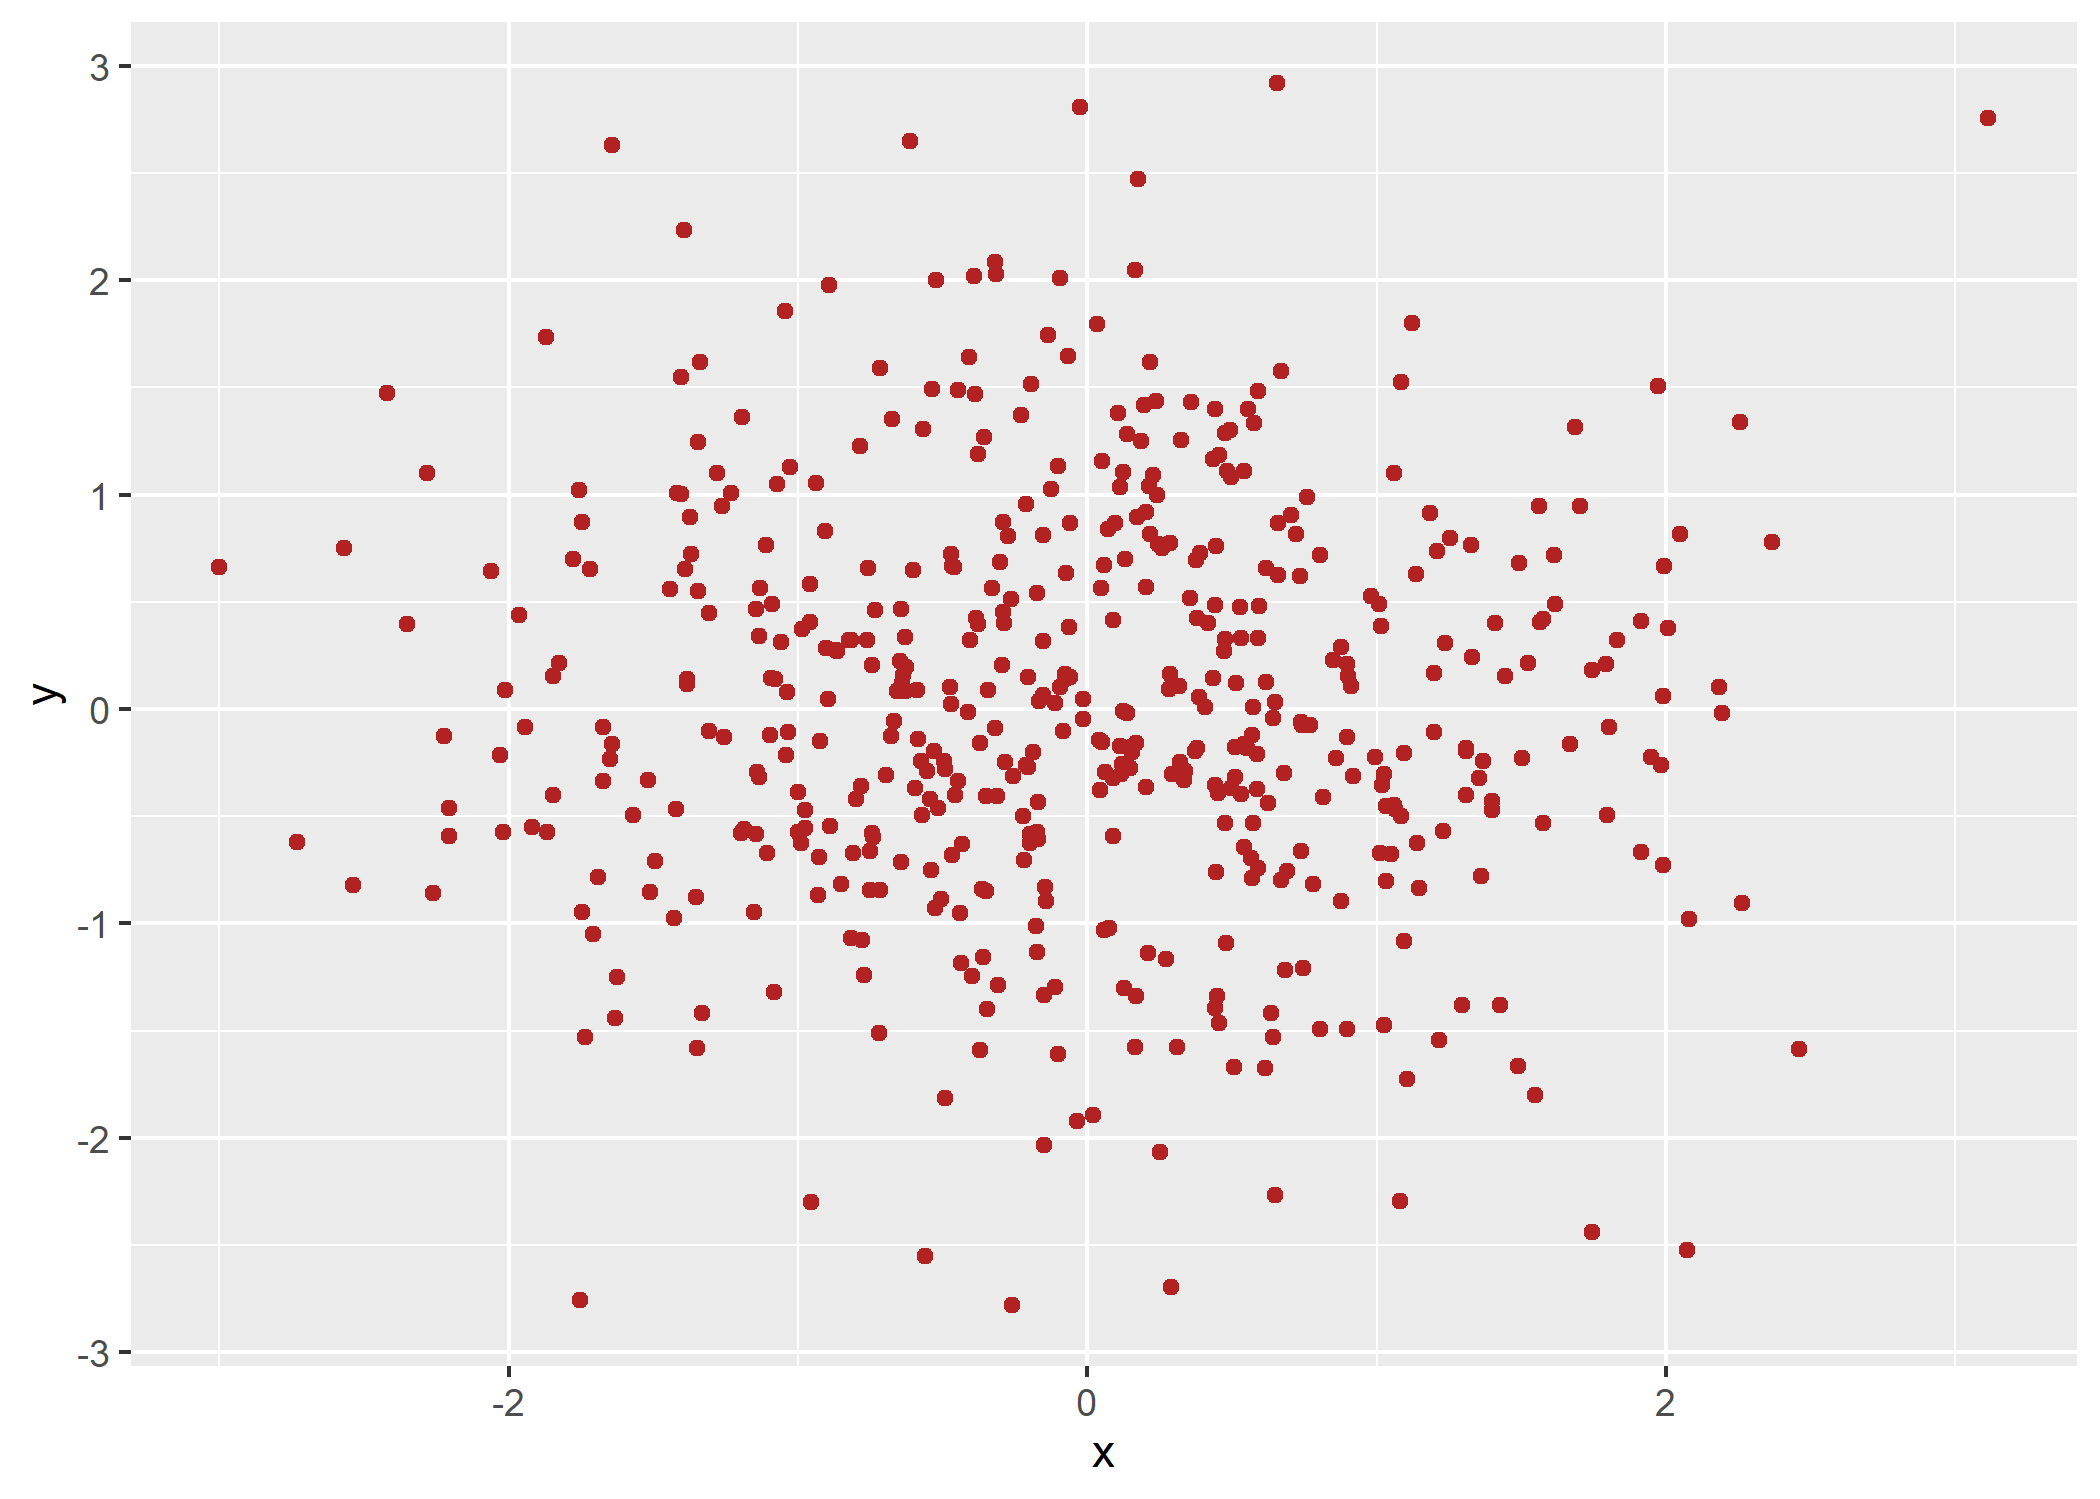
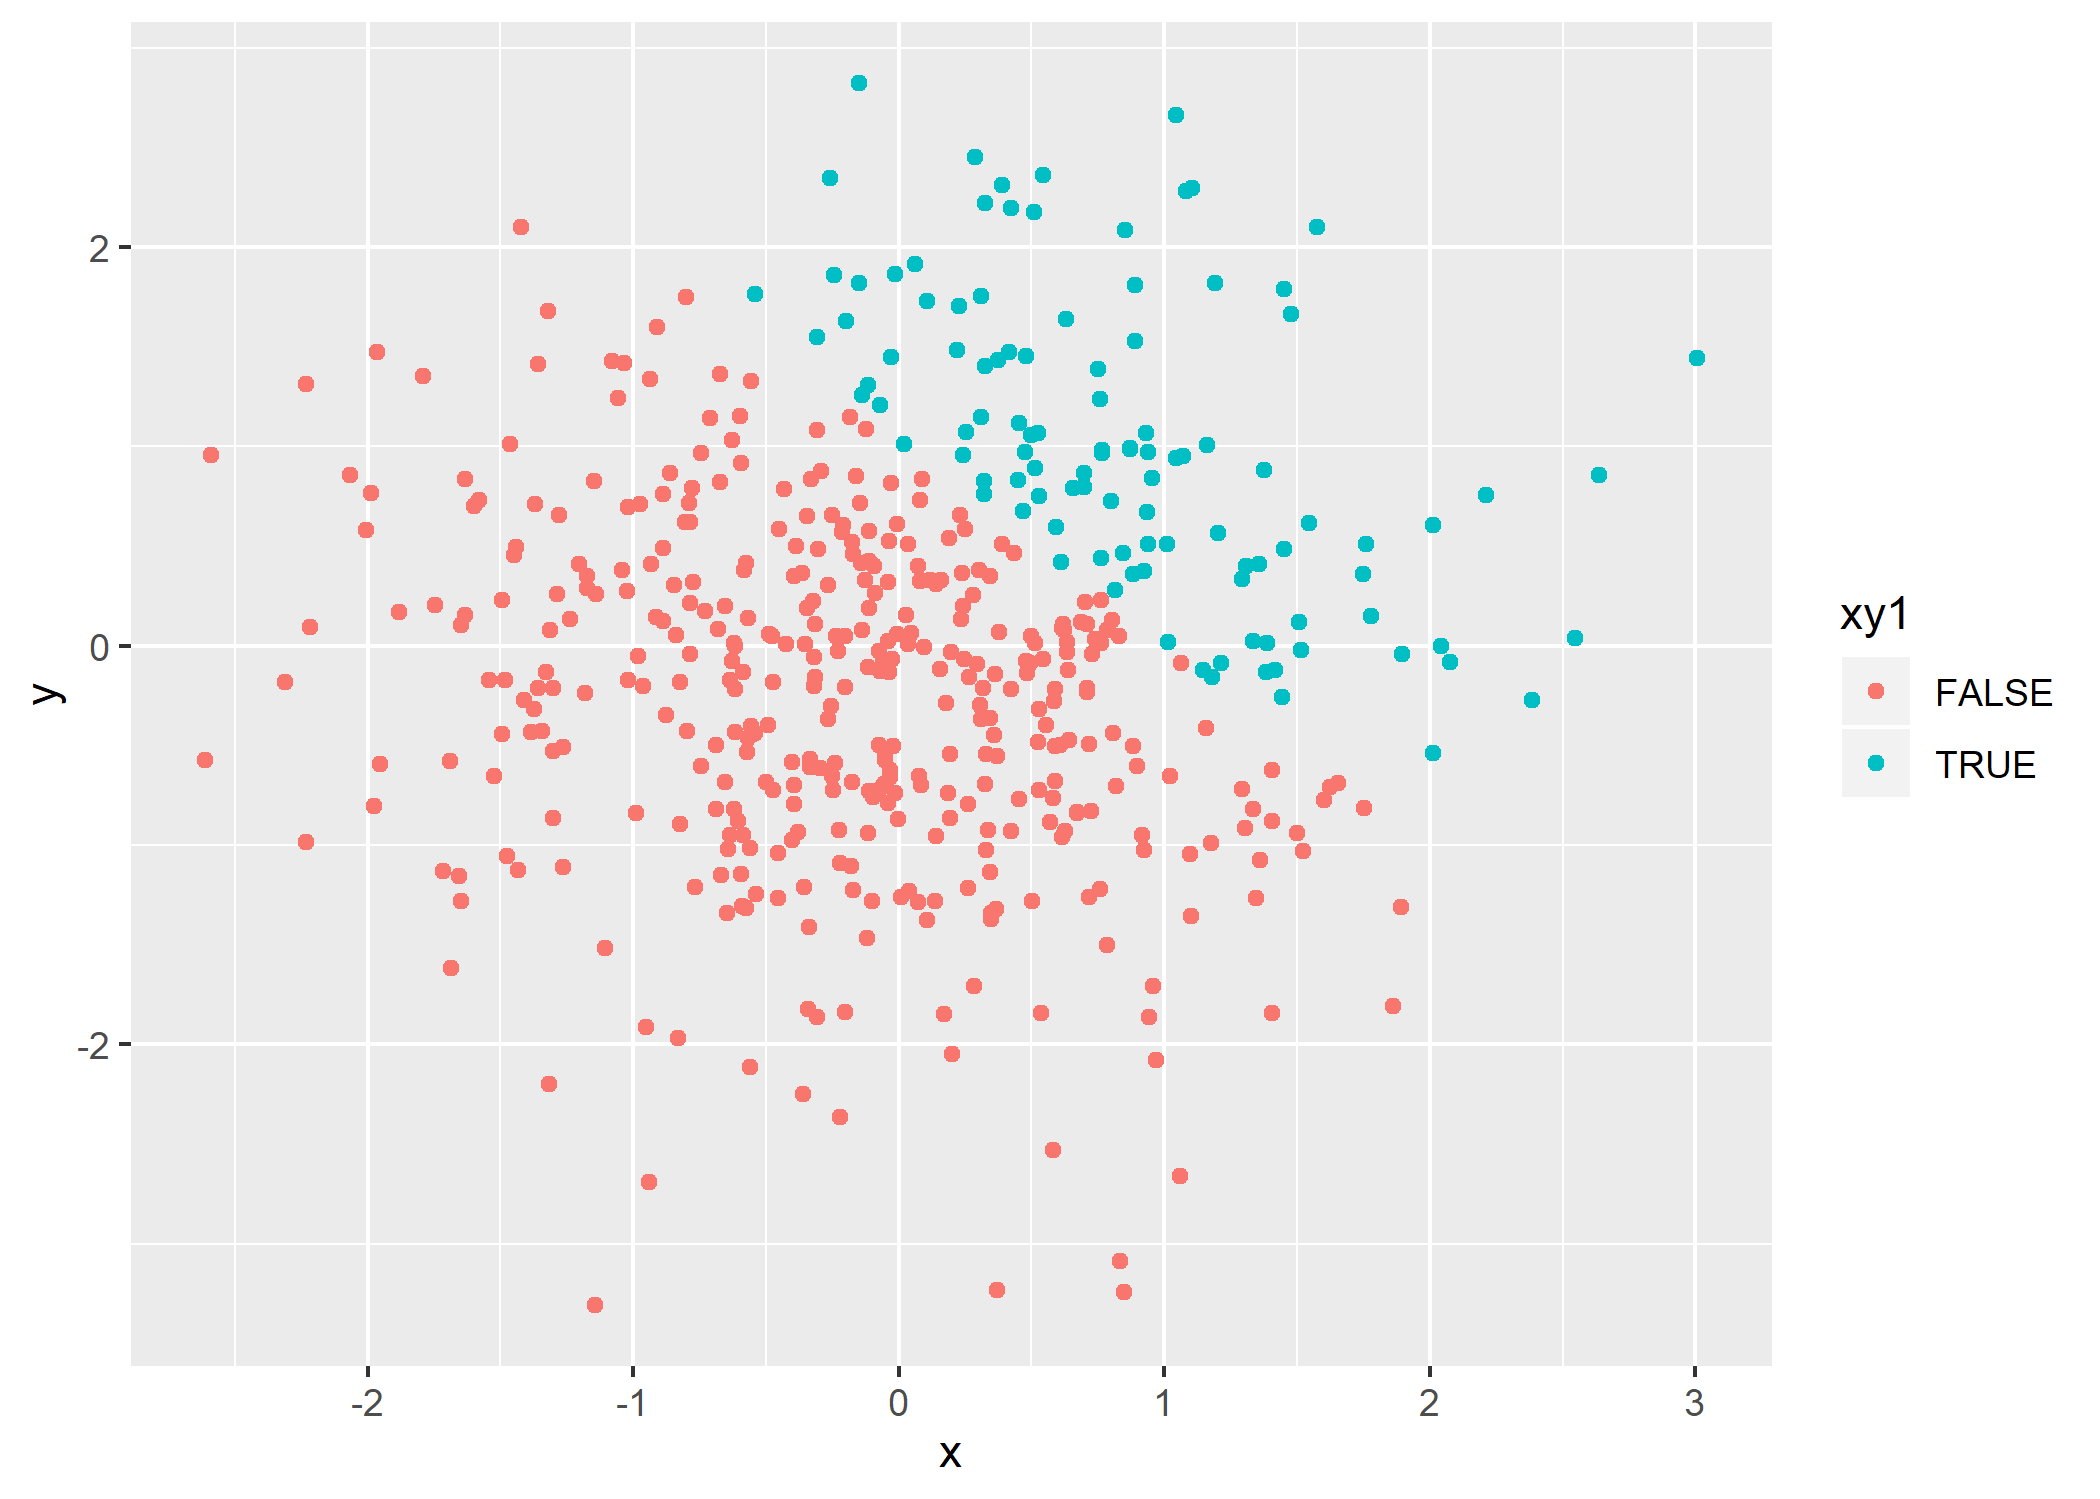
Final edits addressing questions previously missed and changing base r code.

diff --git a/p8105_hw1_smm2316.md b/p8105_hw1_smm2316.md
@@ -16,70 +16,65 @@ df_q1 = tibble(
   fac_vec = factor(c("1", "2", "3", "1", "2", "3", "1", "2"))
 )
 
-mean(df_q1$num_vec)
+mean(pull(df_q1, num_vec))
 ```
 
-    ## [1] -0.1682392
+    ## [1] -0.2077746
 
 ``` r
-mean(df_q1$num_vec_pos)
+mean(pull(df_q1, num_vec_pos))
 ```
 
-    ## [1] 0.25
+    ## [1] 0.5
 
 ``` r
-mean(df_q1$char_vec)
+mean(pull(df_q1, char_vec))
 ```
 
-    ## Warning in mean.default(df_q1$char_vec): argument is not numeric or
+    ## Warning in mean.default(pull(df_q1, char_vec)): argument is not numeric or
     ## logical: returning NA
 
     ## [1] NA
 
 ``` r
-mean(df_q1$fac_vac)
+mean(pull(df_q1, fac_vec))
 ```
 
-    ## Warning: Unknown or uninitialised column: 'fac_vac'.
-
-    ## Warning in mean.default(df_q1$fac_vac): argument is not numeric or logical:
-    ## returning NA
+    ## Warning in mean.default(pull(df_q1, fac_vec)): argument is not numeric or
+    ## logical: returning NA
 
     ## [1] NA
 
 Created dataframe for question 1 with four vector. Attempted to calculate mean of each vectorr. Successfully calculated the means of both the numeric and logical vectors. Recieved errors for the character and factor vectors because they are not numeric or logical.
 
 ``` r
-as.numeric(df_q1$num_vec_pos)
-as.numeric(df_q1$char_vec)
-as.numeric(df_q1$fac_vec)
+as.numeric(pull(df_q1,num_vec_pos))
+as.numeric(pull(df_q1, char_vec))
+as.numeric(pull(df_q1, fac_vec))
 ```
 
-The as.numeric converted each vector to numeric. In the case of the logical vector it assigned 0 to FALSE and 1 to TRUE. THe function was unable to assign a number to the character vector and NA was entered. The factor vector was converted to 1, 2, and 3 in line with the factor levels.
-
-\`\`\`
+The as.numeric converted each vector to numeric. In the case of the logical vector it assigned 0 to FALSE and 1 to TRUE. THe function was unable to assign a number to the character vector and NA was entered. The factor vector was converted to 1, 2, and 3 in accordance with the factor levels. The coding of the logical vector as 0s and 1s helps explain why it is possible to take the mean of a logical vector but not the character and factor vectors.
 
 ``` r
-as.numeric(df_q1$num_vec_pos)*df_q1$num_vec
+as.numeric((pull(df_q1, num_vec_pos))*(pull(df_q1, num_vec)))
 ```
 
-    ## [1] 0.000000 0.000000 1.886978 0.000000 0.000000 0.000000 0.000000 1.394149
+    ## [1] 1.3475400 0.0000000 0.2502929 0.0000000 0.0000000 0.0000000 1.0750203
+    ## [8] 0.8932881
 
 ``` r
-as.factor(df_q1$num_vec_pos)*df_q1$num_vec
+as.factor((pull(df_q1, num_vec_pos))*(pull(df_q1, num_vec)))
 ```
 
-    ## Warning in Ops.factor(as.factor(df_q1$num_vec_pos), df_q1$num_vec): '*' not
-    ## meaningful for factors
-
-    ## [1] NA NA NA NA NA NA NA NA
+    ## [1] 1.34754003725477  0                 0.250292934535207 0                
+    ## [5] 0                 0                 1.075020305603    0.893288083144966
+    ## 5 Levels: 0 0.250292934535207 0.893288083144966 ... 1.34754003725477
 
 ``` r
-as.numeric(as.factor(df_q1$num_vec_pos))*df_q1$num_vec
+as.numeric((as.factor((pull(df_q1, num_vec_pos))*(pull(df_q1, num_vec)))))
 ```
 
-    ## [1] -1.2425291 -0.0192247  3.7739553 -0.7613946 -1.1909673 -0.6763056
-    ## [7] -0.7366184  2.7882972
+    ## [1] 5 1 2 1 1 1 4 3
 
 PROBLEM 2
 ---------
@@ -94,27 +89,25 @@ df_q2 = tibble(
 )
 ```
 
-The dataset is 500 rows by 5 columns. The mean of variable x is -0.0502886, the median is -0.064627, and the standard deviation is 1.0345177.
+The dataset is 500 rows by 5 columns. The mean of variable x is 0.0011346, the median is -0.0246524, and the standard deviation is 0.9268838. The proportion of cases in which x + y &gt; 1 is 21.8.
 
 ``` r
-library(ggplot2)
-
-plot_x_y = ggplot(df_q2, aes(x=x, y=y)) + geom_point(col="firebrick")
-plot_x_y
+plot_x_y = ggplot(df_q2, aes(x=x, y=y, color=xy1)) + geom_point()
+  plot_x_y
 ```
 
 ![](p8105_hw1_smm2316_files/figure-markdown_github/question_2_pt2-1.png)
 
 ``` r
-plot_num_xy1_x = ggplot(df_q2, aes(x=x, y=num_xy1)) + geom_point(col="steelblue")
-plot_num_xy1_x
+plot_num_xy1_x = ggplot(df_q2, aes(x=x, y=y, color=num_xy1)) + geom_point()
+  plot_num_xy1_x
 ```
 
 ![](p8105_hw1_smm2316_files/figure-markdown_github/question_2_pt2-2.png)
 
 ``` r
-plot_fac_xy1_x = ggplot(df_q2, aes(x=x, y=fac_xy1)) + geom_point(col="gold")
-plot_fac_xy1_x
+plot_fac_xy1_x = ggplot(df_q2, aes(x=x, y=y, color=fac_xy1)) + geom_point()
+  plot_fac_xy1_x
 ```
 
 ![](p8105_hw1_smm2316_files/figure-markdown_github/question_2_pt2-3.png)
@@ -123,4 +116,4 @@ plot_fac_xy1_x
 ggsave("homework_1_plot.png", plot=plot_x_y)
 ```
 
-plot\_x\_y is a scatter plot of variable y by x seen in red. plot\_num\_xy1\_x is a scatter plot of the numeric vector by x seen in blue. plot\_fac\_xy1\_x is a scatter plot of the factor vector by x seen in yellow.
+plot\_x\_y is a scatter plot of the logical vector that describes whether x + y &gt; 1 with red points being false (&lt;=1) and blue being true (&gt;1), the scale is dichotomous because it is a logical vector. Plot\_num\_xy1\_x is a scatter plot of the numeric vector created from the logical vector that describes whether x + y &gt; 1. In this case the blue points indicate 1s (x + y &gt;1) and black points are 0s (x + y &lt;= 1), however because the vector is numerica the scale is now continuous as seen by the gradient in the legend. Plot\_fac\_xy1\_x is a scatter plot of the factor vector created from the logical vector describing whether x + y &gt; 1. As with the first graph red points are false (&lt;=1) and blue are true (&gt;1), the scale is dichotomous because it is a factor vector with two levels.
